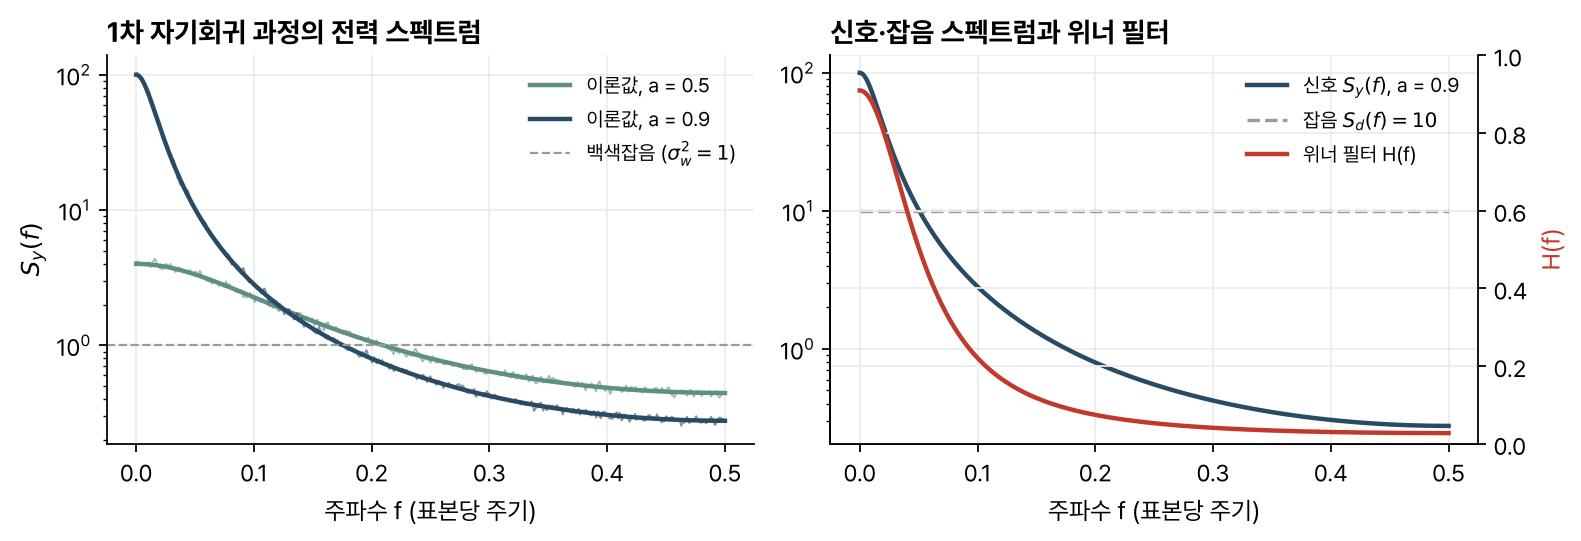
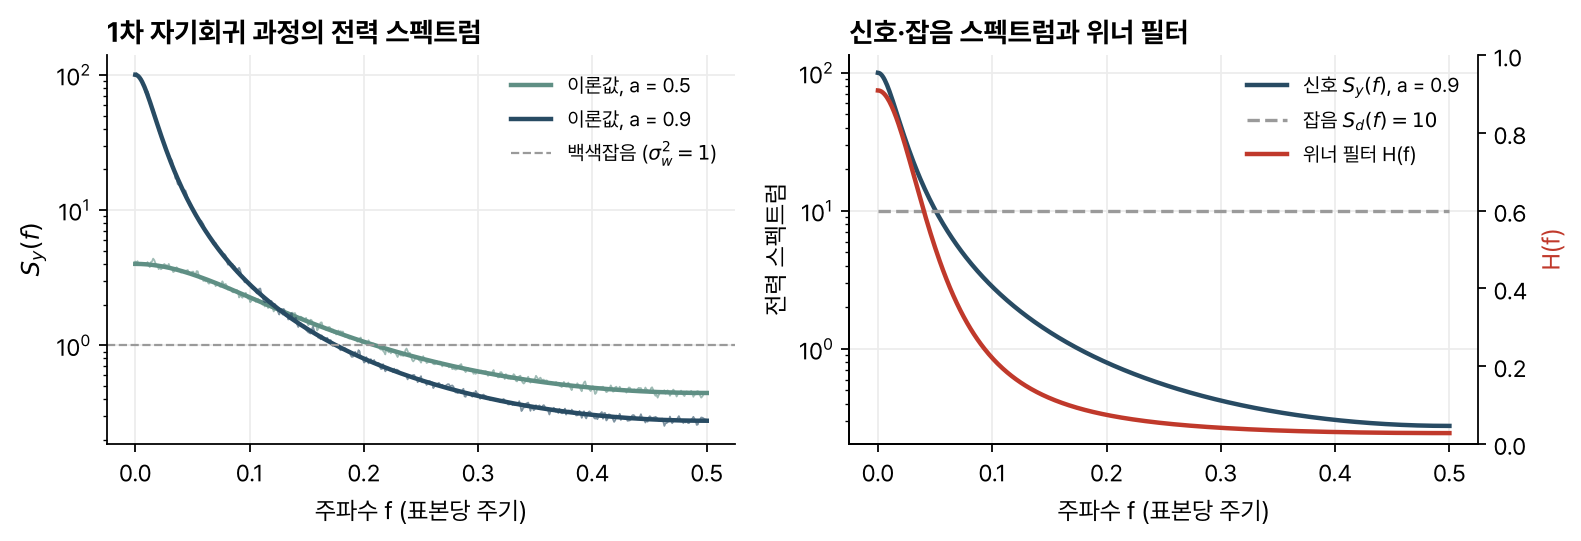
Fix review findings in HST.582J notes
- FIR/IIR is classified by the a_k coefficients; a recursive running sum
  is a counterexample to 'any feedback term means infinite response'.
- Lag-0 autocorrelation is total power (0.5 + 4), shown off-scale.
- Uncorrelated means zero cross-covariance; joint Gaussianity makes it
  equivalent to independence.
- Escape |k| inside table math so the PSD table renders; define the
  boxcar autocorrelation; name the additive-noise variance sigma_d^2.
- Wiener figure: y-axis label, no twin-axis grid; caption notes the
  Welch window and overlap.

Claude-Session: https://claude.ai/code/session_01DRUnFxFn4g3T7a1hqi5YWp

diff --git a/scripts/figures/random_signals.py b/scripts/figures/random_signals.py
@@ -100,6 +100,8 @@ ax2.set_ylim(0, 1)
 ax2.set_ylabel("H(f)", color=RED)
 ax2.spines["right"].set_visible(True)
 axes[1].set_title("신호·잡음 스펙트럼과 위너 필터", loc="left")
+axes[1].set_ylabel("전력 스펙트럼")
+ax2.grid(False)
 axes[1].set_xlabel("주파수 f (표본당 주기)")
 l1, lab1 = axes[1].get_legend_handles_labels()
 l2, lab2 = ax2.get_legend_handles_labels()

diff --git a/content/courses/mit-hst582j/random-signals-autocorrelation.md b/content/courses/mit-hst582j/random-signals-autocorrelation.md
@@ -41,7 +41,7 @@ $$
 P(|x[n] - \mu_x| \ge \epsilon) \le \frac{\sigma_x^2}{\epsilon^2}
 $$
 
-평균에서 표준편차의 2배 넘게 벗어날 확률은 25% 이하다. 가우스 신호에서는 실제로 약 4.6%다. 실용적인 한계보다는, 오차의 분산을 줄이면 큰 오차가 드물어진다는 근거로서 최소제곱 추정을 정당화한다.
+평균에서 표준편차의 2배 넘게 벗어날 확률은 25% 이하다. 가우스 신호에서는 직접 계산하면 약 4.6%다(강의 자료는 5% 미만이라고만 적는다). 실용적인 한계보다는, 오차의 분산을 줄이면 큰 오차가 드물어진다는 근거로서 최소제곱 추정을 정당화한다.
 
 ## 자기상관 함수가 필요한 이유
 
@@ -110,7 +110,7 @@ $$
 1. 주파수를 알면, 관측 신호와 단위 코사인 $\cos 2\pi f n$의 상호상관을 구한다. 잡음 항은 무상관이라 사라지고 $\tfrac{A}{2}\cos(2\pi f k + \phi)$가 남는다. 위상까지 복원된다.
 2. 주파수를 모르면, 자기상관을 구한다. $R_x[k] = R_s[k] + R_d[k]$에서 잡음의 자기상관은 지연이 커지면 0에 가까워지므로, 큰 지연에서는 주기 성분의 자기상관만 남는다. 위상 정보는 잃는다.
 
-그림 2의 신호는 파형만 봐서는 정현파가 잘 보이지 않는다. 그림 1 오른쪽의 자기상관에서는 지연 0의 잡음 전력(약 4.5)을 지나면 주기 20의 코사인이 뚜렷하다.
+그림 2에서 회색 관측 신호만 보면 정현파가 잘 드러나지 않는다. 그림 1 오른쪽의 자기상관에서 지연 0의 값은 정현파 전력 0.5와 잡음 전력 4를 더한 약 4.5여서 세로축 밖에 있고, 지연 1부터는 주기 20의 코사인이 뚜렷하다.
 
 ![백색잡음에 묻힌 정현파](../../images/random-signals-autocorrelation/sine-in-noise.png)
 *그림 2. 그림 1 오른쪽에 쓴 신호의 처음 200개 표본. 회색은 관측 신호, 빨강은 그 안에 더한 정현파다.*
@@ -122,7 +122,7 @@ $$
 ## 유의점
 
 - 여기서 쓰는 평균은 한 신호의 시간 평균이다. 여러 신호를 같은 시점에 평균하는 앙상블 평균과 같다고 보려면 정상성과 에르고딕성을 가정해야 한다.
-- 자기상관이 0이라는 것은 무상관이라는 뜻이고, 독립이라는 뜻은 아니다. 가우스 신호에서만 둘이 같다.
+- 두 신호의 상호공분산이 0이면 무상관이다. 무상관이어도 독립이 아닐 수 있고, 두 신호가 결합 가우스 분포를 따르면 무상관과 독립이 같다. 평균이 0이 아니면 상호상관이 0이 아니어도 무상관일 수 있다.
 - 출력 전력은 입력 전력만으로 정해지지 않는다. 같은 전력의 입력이라도 이웃 표본의 상관에 따라 필터를 지난 전력이 달라진다.
 - 유한한 길이의 데이터로 구한 자기상관은 추정값이다. 큰 지연일수록 평균하는 표본 수가 줄어 흔들림이 크다.
 
